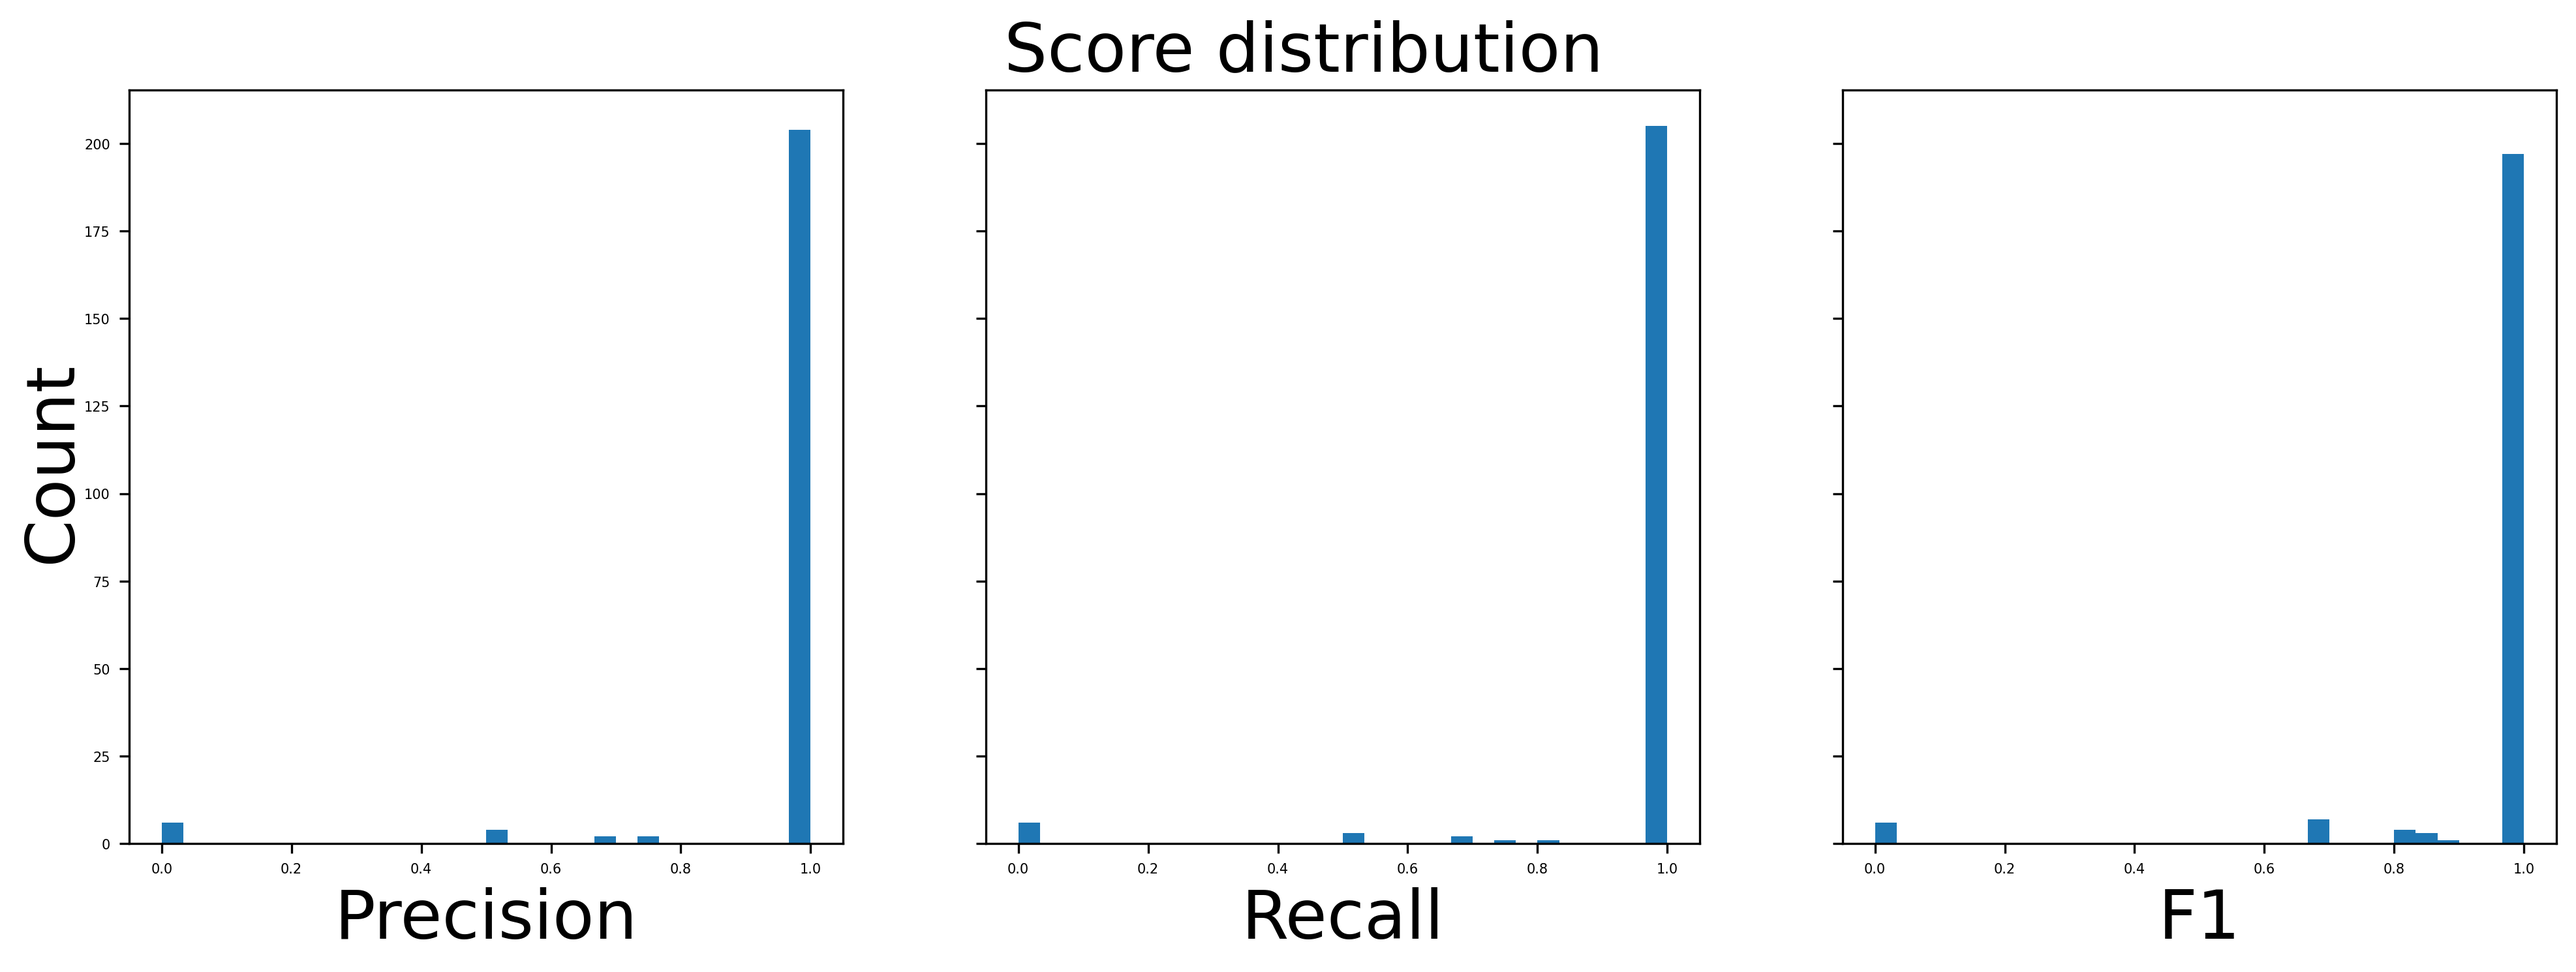
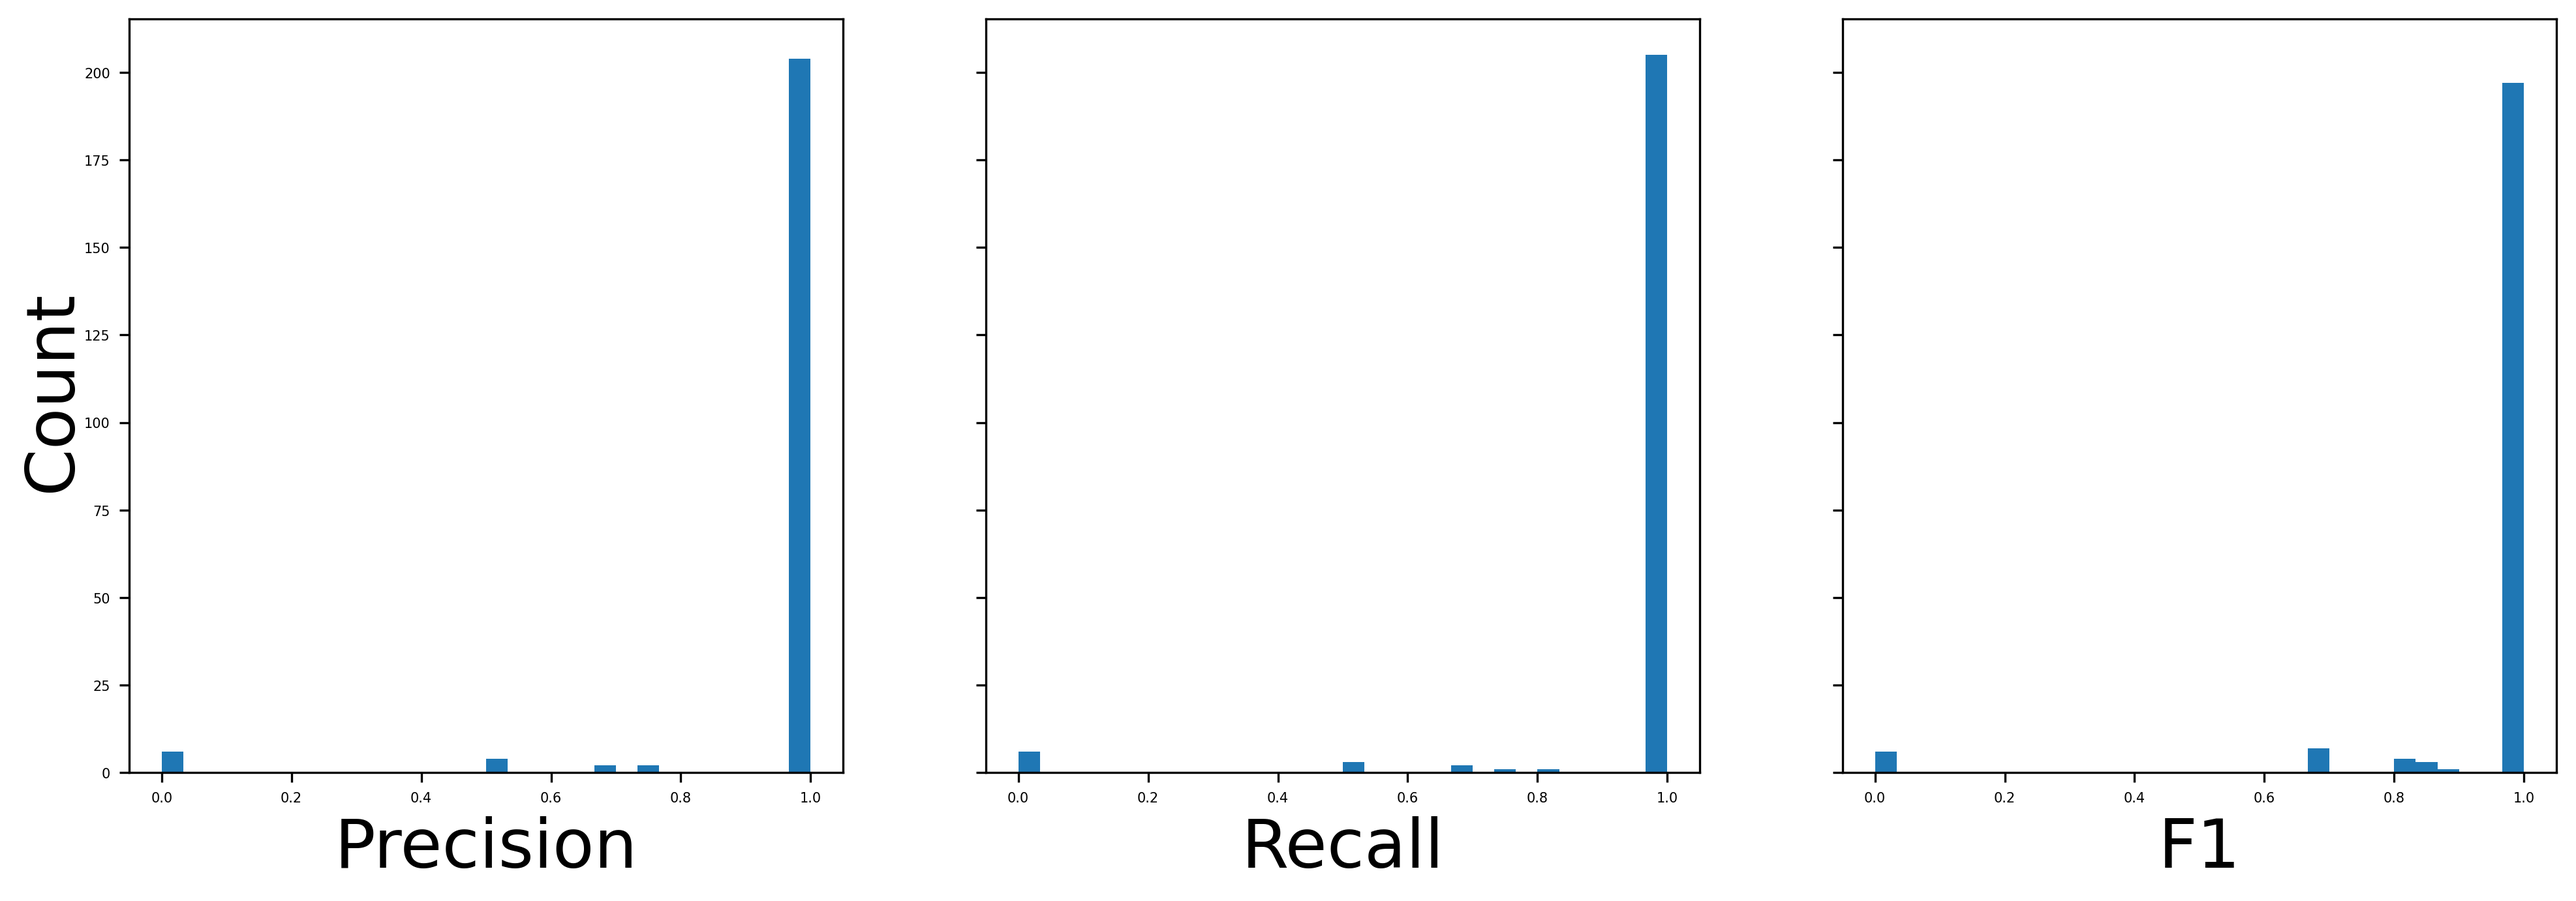
Refined confusion matrix figures

diff --git a/src/train_and_evaluate.py b/src/train_and_evaluate.py
@@ -355,7 +355,7 @@ def plot_residuals(outputs, labels, elements_to_keep, dims_to_keep='all', nrows=
         axes[-1].set_axis_off()
 
     fig.text(0.5, 0.0, xlabel, ha='center', size=25)
-    fig.text(0.04, 0.5, ylabel, va='center', rotation='vertical', size=25)
+    fig.text(0.06, 0.5, ylabel, va='center', rotation='vertical', size=25)
 
     #plt.tight_layout()
     if path_to_save:
@@ -454,7 +454,7 @@ def plot_qq(outputs, labels, elements_to_keep, dims_to_keep='all', nrows=2, figs
         axes[-1].set_axis_off()
 
     fig.text(0.52, 0.0, xlabel, ha='center', size=25)
-    fig.text(0.06, 0.5, ylabel, va='center', rotation='vertical', size=25)
+    fig.text(0.08, 0.5, ylabel, va='center', rotation='vertical', size=25)
 
     #plt.tight_layout()
     if path_to_save:
@@ -700,7 +700,7 @@ def plot_topk_confusion(y_true, y_pred, top_k=20, figsize=(7, 5), path_to_save=N
     plt.close()
 
 
-def plot_prf_distribution_subplots(y_true, y_pred, figsize=(16, 5), xlabel='Score distribution', ylabel='Count', path_to_save=None):
+def plot_prf_distribution_subplots(y_true, y_pred, figsize=(16, 5), xlabel='', ylabel='Count', path_to_save=None):
 
     precision, recall, f1, _ = precision_recall_fscore_support(
         y_true, y_pred, average=None
@@ -834,13 +834,13 @@ def compute_precision_and_recall(outputs_df):
 def get_sample_number_in_group(original_labels):
     return np.array(original_labels.apply(lambda x: int(x.split('_')[-1])).values)
 
-def plot_confusion_matrix(true_labels, closest_labels, normalization_in_conf_mat = None, figsize=(5.5, 5), path_to_save = None):
+def plot_confusion_matrix(true_labels, closest_labels, normalization_in_conf_mat = None, figsize=(7, 5), path_to_save = None):
 
     conf_mat = confusion_matrix(true_labels, closest_labels, 
                                 normalize=normalization_in_conf_mat)
 
     plt.figure(figsize=figsize)
-    ax=sns.heatmap(conf_mat, cmap=sns.cm.rocket_r, xticklabels=False, yticklabels=False, cbar=False)
+    ax=sns.heatmap(conf_mat, cmap=sns.cm.rocket_r, xticklabels=False, yticklabels=False, cbar=True)
     ax.figure.axes[-1].yaxis.label.set_size(10)
     plt.ylabel('True class', size=25)
     plt.xlabel("Prediction's closest class", size=25)

diff --git a/analysis/4_neural_network_validation.py b/analysis/4_neural_network_validation.py
@@ -9,7 +9,7 @@ import json
 with open('../config.json', 'r') as f:
     config = json.load(f)
 
-mode = "training_subset"
+mode = "training"
 
 PREPROCESSING_METHOD = config["preprocessing_method"]
 HOW_MANY_OUTER_TO_REMOVE = config["how_many_outer_to_remove"]
